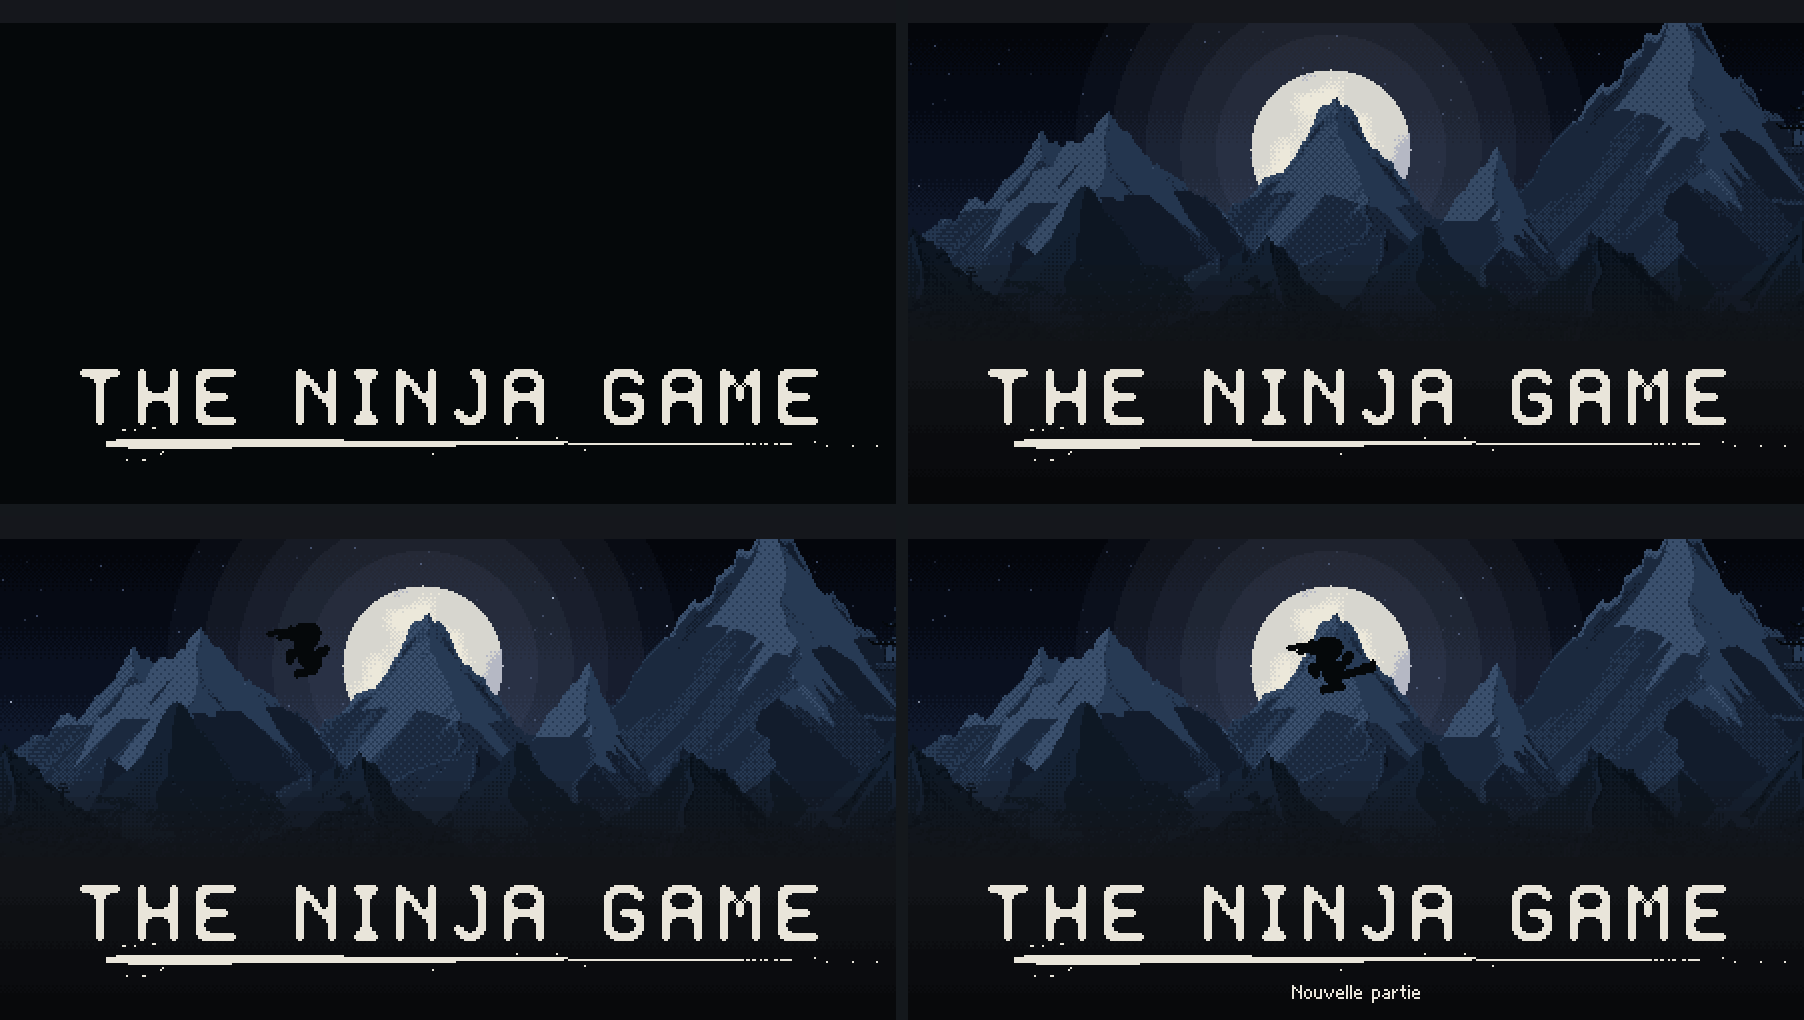
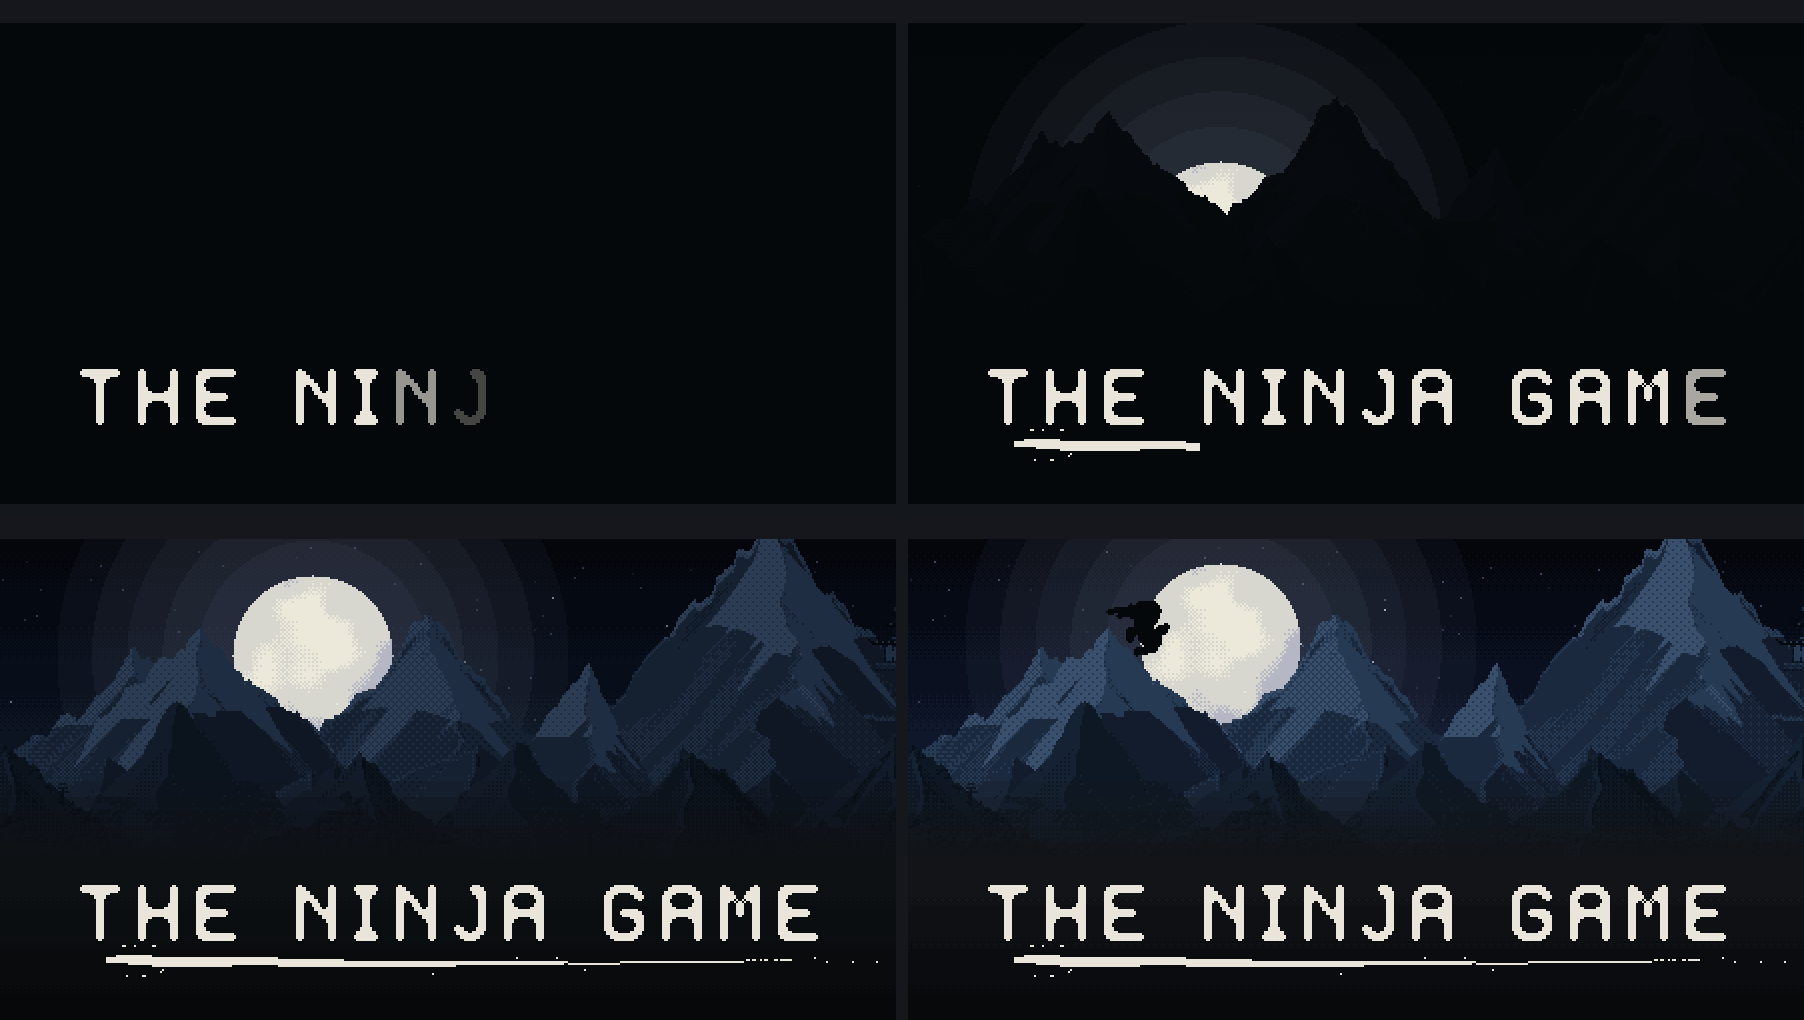
Intro : le titre s'écrit avec le long son, les montagnes juste avant sa fin
Demande de Raph : la moitié du titre s'écrivait sans son. La musique part
maintenant avec l'intro (au geste) ; le titre s'écrit plus lentement, dès
que le long son devient audible (1,2-6,9 s, une lettre toutes les 0,36 s) ;
la lune monte juste avant la dernière lettre (6,2 s), le pinceau se tire
pendant que les montagnes sortent du noir (apparues vers 9,2 s) ; KAGE se
fige toujours sur la première note (10,3 s). Le long son couvre ainsi le
titre puis les montagnes. GIF et étapes refaits ; carte mentale à jour.

Claude-Session: https://claude.ai/code/session_01A2iwx5ikARHMwBkhmiw1Tw

diff --git a/docs/carte-mentale/index.html b/docs/carte-mentale/index.html
@@ -462,7 +462,7 @@ const BRANCHES = [
     txt: "L'adresse sans # ouvre le chapitre en cours. Au lancement, l'introduction se joue, puis son menu (Continuer, Nouvelle partie) apparaît sous le titre, sans cadre ; le choix fait s'effacer l'intro sur le jeu.", files: ['src/main.js'], see: ['sys-intro'] },
   { id: 'sys-intro', t: 'Introduction', s: 'encours', d: 'L\'encre, la lune, le coup de pied',
     txt: "Demande de Raph (novembre 2026), combinaison des ouvertures 1 et 4 de la planche : le noir ; « THE NINJA GAME » s'écrit lettre à lettre au pied des montagnes, puis un coup de pinceau se tire dessous (large à la base, effilé et sec à la fin, de légères éclaboussures) ; la lune se lève au-dessus d'un col de la grande chaîne du Potager (peinte par le vrai code du décor, recolorée en nuit), éclaircit le ciel et fait sortir les montagnes du noir ; leur pied se fond par paliers dans une base d'encre neutre qui fonce vers le bas ; KAGE arrive en ombre chinoise en coup de pied sauté (tobi yoko geri, pose dessinée exprès d'après les références de Raph : buste en arrière, jambe tendue talon en avant, l'autre repliée, garde levée, poing arrière à la hanche) et se fige au centre de la lune. Le menu apparaît alors, en ligne (Continuer à gauche, Nouvelle partie à droite). Musique (novembre 2026, tirée d'une vidéo de Raph, tools/musique_boucle.py entier → assets/music/intro.mp3) : comme les navigateurs ne jouent aucun son avant un geste, l'intro attend d'abord sur le noir « Appuie sur une touche » ; ce geste lance l'image et la musique ensemble, l'horloge de l'intro devient celle de la musique, et sa première vraie note tombe à l'instant où KAGE se fige (le titre et les montagnes ont fini d'apparaître pendant le long son). La musique finie (≈ 1 min), fondu au noir et volume à zéro, puis tout recommence, en boucle. Tant que la musique n'est pas partie (un navigateur peut refuser le son au premier geste, surtout sur téléphone), chaque geste retente de la lancer, à l'endroit voulu. Dans la version de test, le panneau passe au-dessus de l'intro et montre un témoin du son (« Son : en marche · Intro : musique »). Une touche ou un toucher l'amène à sa fin. Dans la version de test, elle se joue au lancement (pas en changeant de chapitre) et le bouton « Intro » du panneau la rejoue. Les tests la passent (__KAGE_SKIP_INTRO) sauf un, qui la joue jusqu'au bout. Le coup de pied sauté est devenu une animation du jeu (air_kick).",
-    keys: ['Lettres 0,8-4,7 s, pinceau 4,8 s, lune 6-10,7 s, KAGE 10,9 s, figé à 12 s sur la première note (10,3 s dans la piste, qui part à 1,7 s), menu 12,5 s, boucle ≈ 63,8 s', 'Coup de pied : 3 images (élan, armé, coup), générées par tools/kage_forge/intro_kick.py (kage_intro_kick.png)', 'Titre au corps « titre », interlettrage 1,25'],
+    keys: ['La musique part avec l\'intro ; lettres 1,2-6,9 s (une toutes les 0,36 s), lune 6,2 s (montagnes apparues vers 9,2 s), pinceau 6,5 s, KAGE 9,2 s, figé à 10,3 s sur la première note, menu 10,8 s, boucle ≈ 62,1 s', 'Coup de pied : 3 images (élan, armé, coup), générées par tools/kage_forge/intro_kick.py (kage_intro_kick.png)', 'Titre au corps « titre », interlettrage 1,25'],
     files: ['src/game/intro.js', 'assets/music/intro.mp3', 'tools/musique_boucle.py', 'tools/kage_forge/intro_kick.py', 'assets/characters/kage/kage_intro_kick.png', 'src/main.js', 'src/style.css', 'tools/intro_planche.mjs'], links: [['Planche des ouvertures', 'docs/intro/planche_ouvertures.png'], ['GIF de l\'intro', 'docs/intro/intro.gif'], ['Les étapes', 'docs/intro/intro_etapes.png'], ['Sur téléphone', 'docs/intro/intro_telephone.png']], see: ['sys-titre', 'sys-police'] },
   { id: 'sys-sauvegarde', t: 'Sauvegarde automatique', s: 'fait', d: 'Dans le navigateur',
     txt: "Point de reprise, ryō, caisses brisées, rencontre du marchand, temps de jeu, chutes. Si le navigateur refuse, le jeu continue sans sauvegarde et le signale. À venir : skins, expérience, secrets, chapitres débloqués.",

diff --git a/src/game/intro.js b/src/game/intro.js
@@ -31,24 +31,26 @@ const FONT = { font: 'title', spacing: 1.25 };
  * se fige, jambe tendue, au centre de la lune.
  */
 export const INTRO = {
-  letters: 0.8,      // première lettre
-  letterGap: 0.24,   // une lettre toutes les…
-  letterFade: 0.8,   // fondu d'une lettre
-  brush: 4.8,        // le coup de pinceau…
-  brushTime: 0.9,    // …tiré en
-  moon: 6.0,         // la lune commence à monter (ciel et montagnes apparus vers 10,1 s)
-  moonTime: 4.7,     // …et finit de monter
-  kage: 10.9,        // KAGE entre dans l'image…
-  kageTime: 1.1,     // …et arrive au centre de la lune : l'image se fige (12 s), sur la première note
-  menu: 12.5,        // le menu apparaît
+  // la musique part dès le geste ; son long son devient audible vers 1,2 s : le titre s'écrit alors,
+  // lentement, et les montagnes apparaissent juste avant qu'il soit fini, sur le même souffle
+  letters: 1.2,      // première lettre
+  letterGap: 0.36,   // une lettre toutes les…
+  letterFade: 1.0,   // fondu d'une lettre (la dernière est écrite à 6,9 s)
+  brush: 6.5,        // le coup de pinceau…
+  brushTime: 1.0,    // …tiré en
+  moon: 6.2,         // la lune commence à monter, juste avant la dernière lettre (ciel et montagnes apparus vers 9,2 s)
+  moonTime: 3.4,     // …et finit de monter
+  kage: 9.2,         // KAGE entre dans l'image…
+  kageTime: 1.1,     // …et arrive au centre de la lune : l'image se fige (10,3 s), sur la première note
+  menu: 10.8,        // le menu apparaît
   fadeOut: 1.6,      // l'intro s'efface sur le jeu
   cycleFade: 3,      // à la fin de la musique : fondu au noir et volume à zéro, puis tout recommence
   // la musique : note = attaque de la première vraie note, length = durée (secondes du fichier)
   music: { src: './music/intro.mp3', note: 10.3, length: 62.132 },
 };
 const FREEZE = INTRO.kage + INTRO.kageTime;
-const MUSIC_AT = FREEZE - INTRO.music.note;          // la musique part à 1,7 s
-const CYCLE = MUSIC_AT + INTRO.music.length;         // puis tout recommence (≈ 63,8 s)
+const MUSIC_AT = FREEZE - INTRO.music.note;          // la musique part avec l'intro (0 s)
+const CYCLE = MUSIC_AT + INTRO.music.length;         // puis tout recommence (≈ 62,1 s)
 
 // les couleurs de la nuit
 const SKY = ['#04060c', '#060a14', '#0a101f', '#0f182b', '#15203a'];
